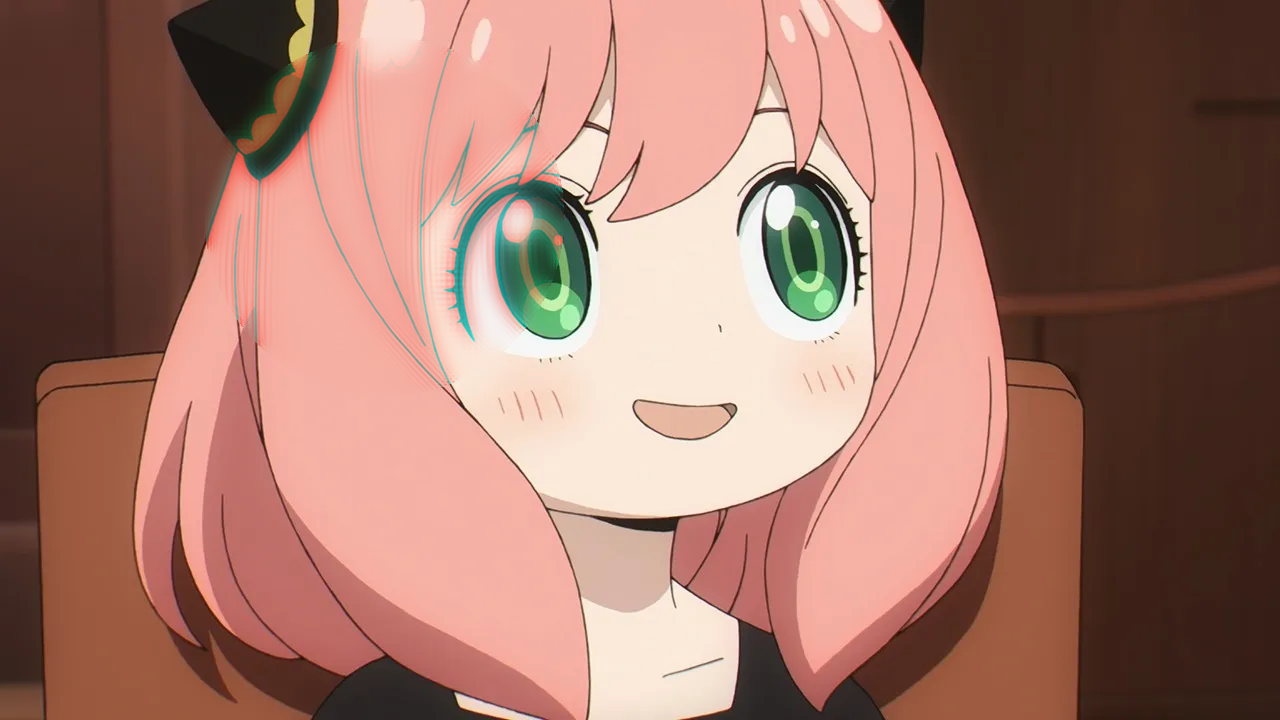
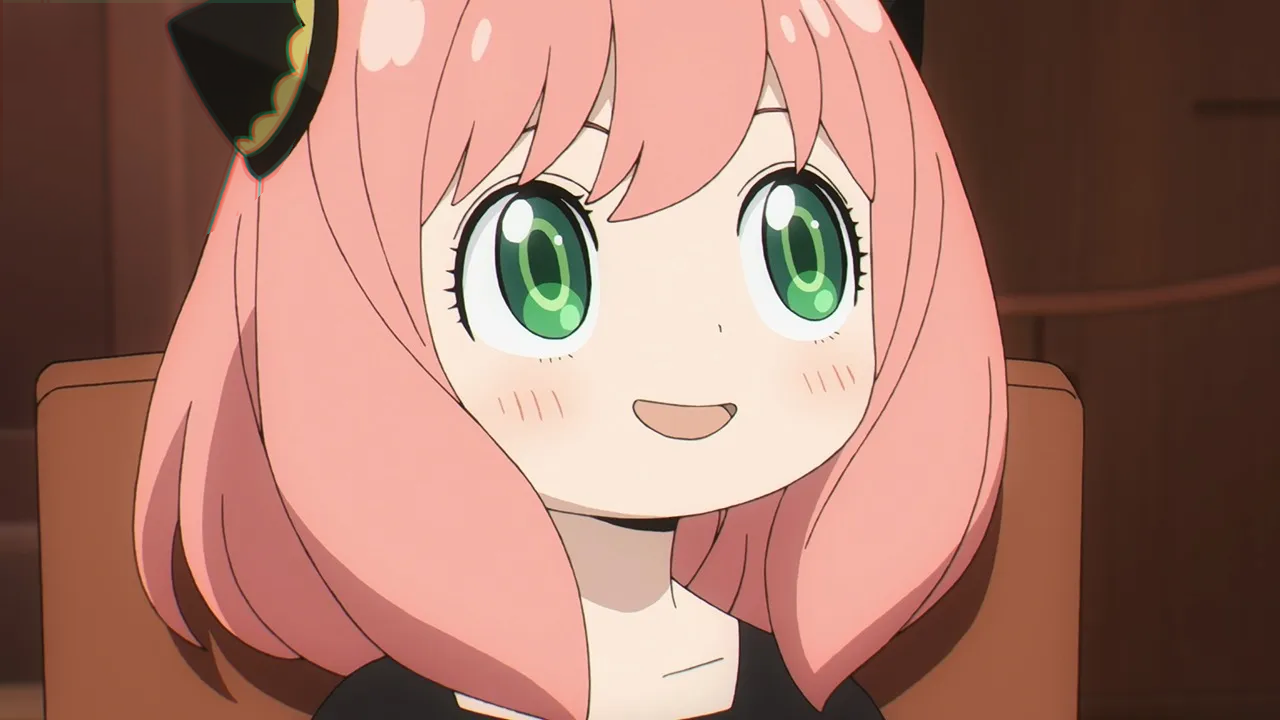
blur completed with degree implemented and comments
done :D

Changed region(s): [[0.3125, 0.1528, 0.4375, 0.5194], [0.1562, 0.0, 0.3125, 0.4583]]

diff --git a/blur.py b/blur.py
@@ -22,40 +22,37 @@ dim = (width, height)
 #resize image (unused)
 resized = cv.resize(img, dim, interpolation = cv.INTER_AREA)
 
+"""blurring whole image, controlable variables: deg
+"""
 #save image to rewritable array 
 img_np = numpy.array(img)
 
-"""blurring whole image, controlable variables: deg
-"""
 #create np array to store the 3d array of whole blurred image
 blur_whole = img_np.copy()
 
-#set the blurring degree, smaller number equals more blur, deg>=0
-deg = 0
+#set the blurring degree, bigger number equals more blur, deg>=1
+deg = 1
 
-#set counter to 0
-i = 0
 #loop through the numpy 3d array
-for x in range(0, len(img_np)-1):
-    for y in range(0, len(img_np[0])-1):
-        if (x<(len(img_np)-4) and y<(len(img_np[x])-4)) and i >= deg: #change one every i+1 pixel
-            for z in range(0,2):
-                #average the upper, left, bottom, right pixels of original image and save to blur numpy array
-                blur_whole[x][y][z]=(int(img_np[x-3][y-3][z])+int(img_np[x+3][y+3][z])+int(img_np[x+3][y-3][z])+int(img_np[x-3][y+3][z]))/4
-            i = 0 #reset counter
-        else:
-            #increment counter by 1
-            i += 1  
+for degree in range(0, deg):
+    for x in range(0, len(img_np)-1): #x-axis of pixel
+        for y in range(0, len(img_np[0])-1): #y-axis of pixel
+            if (x<(len(img_np)-4) and y<(len(img_np[x])-4)):
+                for z in range(0,2):
+                    #average the upper, left, bottom, right pixels of original image and save to blur numpy array
+                    blur_whole[x][y][z]=(int(img_np[x-3][y-3][z])+int(img_np[x+3][y+3][z])+int(img_np[x+3][y-3][z])+int(img_np[x-3][y+3][z]))/4
+    img_np = blur_whole.copy()
             
 """blurring partial image, controlable variables: part_x, part_y, area, lvl
 """ 
 #create np array to store the 3d array of partial blurred image
+img_np = numpy.array(img)
 blur_part = img_np.copy()
 
-p_x = 30 #x coordinate of the center of part blurring, 0 to 100 from left to right
-p_y = 50 #y coordinate of the center of part blurring, 0 to 100 from top to down
-area = 50 #percentage of area size to blur, 1 to 100 
-lvl = 10 #higher indicated more blurred, lvl>1 (a number too high may cause a loop that goes on foreeeeevvvver)
+p_x = 10 #x coordinate of the center of part blurring, 0:100 from left to right
+p_y = 10 #y coordinate of the center of part blurring, 0:100 from top to down
+area = 50 #percentage of area size to blur, 1:100 
+lvl = 1 #higher indicated more blurred, lvl>1 (less than 10 recommended)
 
 #center of part blurring in pixels
 c_x = len(img_np)*p_x/100 
@@ -64,9 +61,9 @@ c_y = len(img_np[0])*p_x/100
 c_area = min(len(img_np), len(img_np[0]))*area/100/2
 
 #loop through the numpy 3d array
-for level in range(1, lvl):
-    for x in range(0, len(img_np)-1):
-        for y in range(0, len(img_np[0])-1):
+for level in range(0, lvl):
+    for x in range(0, len(img_np)-1): #x-axis of pixel
+        for y in range(0, len(img_np[0])-1): #y-axis of pixel
             if (x<(len(img_np)-4) and y<(len(img_np[x])-4)) and (x-c_x)**2 + (y-c_y)**2 < c_area**2: #change every pixel in range selected
                 for z in range(0,2):
                     #average the upper, left, bottom, right pixels of original image and save to partial blur numpy array
